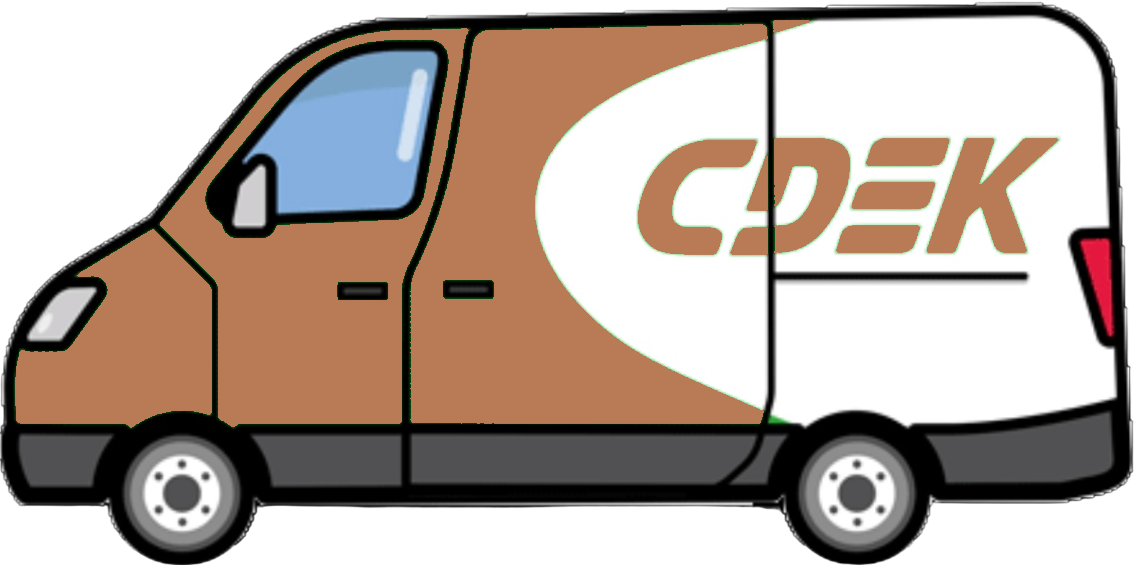
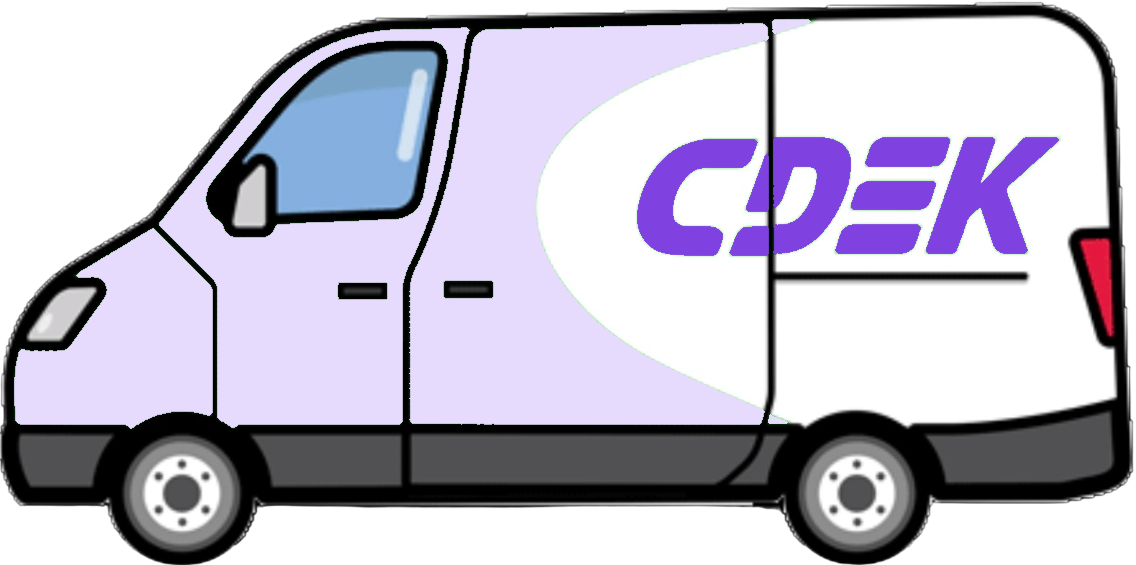
try_6

Changed region(s): [[0.0, 0.0301, 0.7086, 0.7522], [0.5546, 0.2407, 0.9551, 0.4513]]

diff --git a/src/components/Cdek/Cdek.css b/src/components/Cdek/Cdek.css
@@ -1,7 +1,9 @@
 .podlozka_cdek {
   /* background: #e7dbfd; */
   position: sticky;
-  background-color: #e7dbfd;
+  background-color: #7f42e1;
+  border-top-left-radius: 24px;
+  border-top-right-radius: 24px;
   top: -20px;
   z-index: -98;
   
@@ -9,15 +11,7 @@
 }
 
 .cdek{
-  border-top-left-radius: 24px;
-  border-top-right-radius: 24px;
-  background: repeating-linear-gradient(
-    45deg,
-    #F9DBBD,
-    #F9DBBD 10px,
-    #F4EBD9 10px,
-    #F4EBD9 20px
-  );
+  
     width:100%;
     height:100vh;
     position: relative;
@@ -63,7 +57,7 @@
   font-family: "Kurale", serif;
   font-weight: 400;
   font-style: normal;
-  color: #8c3e28;
+  color: white;
   font-size: 2.7vw;
   display: flex;
   align-items: center;
@@ -97,12 +91,14 @@
 }
 
 .cdek_angle{
-  opacity: 0.7;
+  opacity: 0.5;
   position: absolute;
-  top: 0;
-  left: 0;
-  width: 35vw;
+  z-index: -1;
+  top: -90px;
+  left: -90px;
+  width: 60%;
   border-top-left-radius: 24px;
+  transform: rotate(-45deg);
 }
 
 /* .cdek_kovri_img3{
@@ -133,9 +129,9 @@
 }
 
 @media (max-width:860px){
-  .cdek_angle{
+  /* .cdek_angle{
     width:40vw;
-  }
+  } */
 
   .cdek_kovri_img1{
     height: 27vh;
@@ -153,9 +149,9 @@
 }
 
 @media (max-width:570px){
-  .cdek_angle{
+  /* .cdek_angle{
     width:45vw;
-  }
+  } */
 
   .cdek_text{
     font-size: 4.5vw;

diff --git a/src/components/Cdek/Cdek.jsx b/src/components/Cdek/Cdek.jsx
@@ -5,7 +5,7 @@ import { useGSAP } from '@gsap/react';
 import { ScrollTrigger } from 'gsap-trial/ScrollTrigger';
 
 import img_cdek_car from '../../img/cdek_car.png'
-import img_bg_cdek from '../../img/bg_sdek.png'
+import img_bg_cdek from '../../img/bg_sdek2.JPG'
 import img_cdek_cover1 from '../../img/cdek_cover1.png'
 import img_ihcover_cdek1 from '../../img/ihcover_cdek.png'
 import img_ihcover_cdek2 from '../../img/ihcover_cdek2.png'
@@ -93,7 +93,7 @@ function Cdek() {
           </div>
         </div>
         <img src={img_bg_cdek} alt="" className="cdek_bg" />
-        <img src={img_cdek_angle} alt="" className="cdek_angle" />
+        {/* <img src={img_cdek_angle} alt="" className="cdek_angle" /> */}
       </div>
     </div>
   )

diff --git a/src/components/Price/Price.jsx b/src/components/Price/Price.jsx
@@ -69,9 +69,9 @@ function Price() {
       }
     })
 
-    gsap.fromTo('.price_comp_img2', {opacity:0.65,y:0},{
-      opacity:0.65,
-      y:-300,
+    gsap.fromTo('.price_comp_img2', {opacity:0.65,},{
+      opacity:0,
+      // y:-300,
       scrollTrigger:{
         trigger:'.cdek',
         start:'center bottom',
